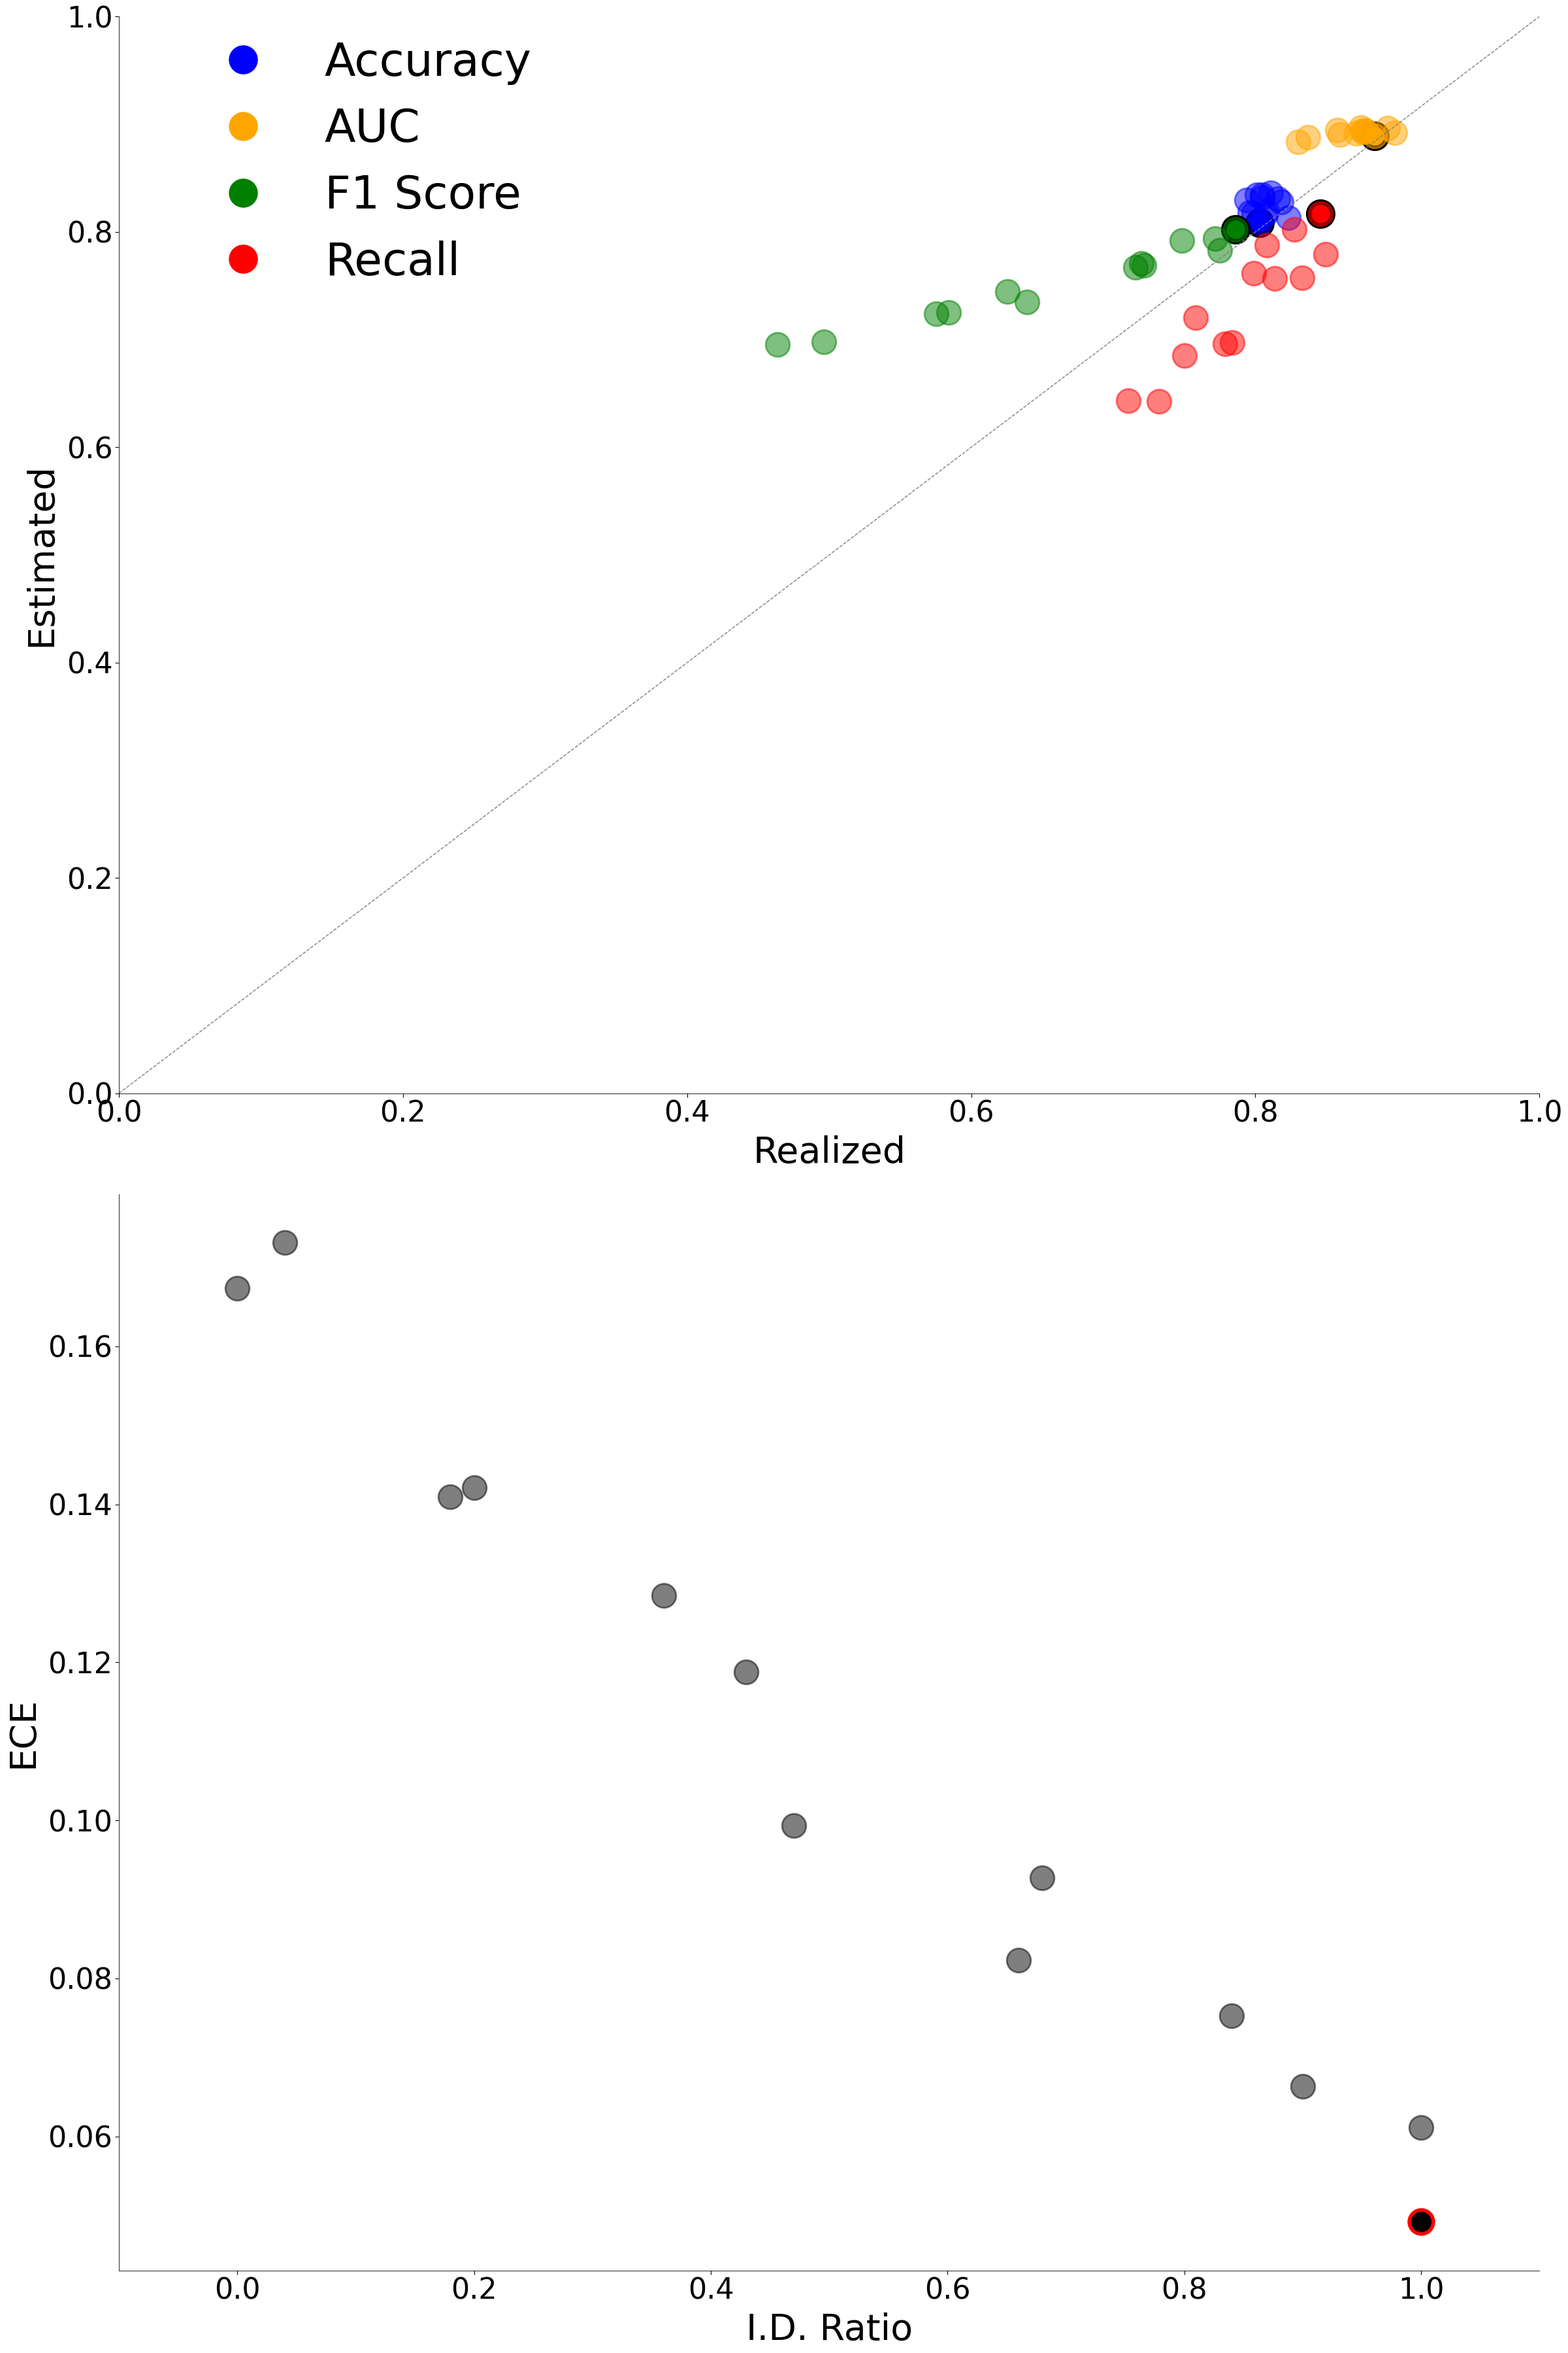
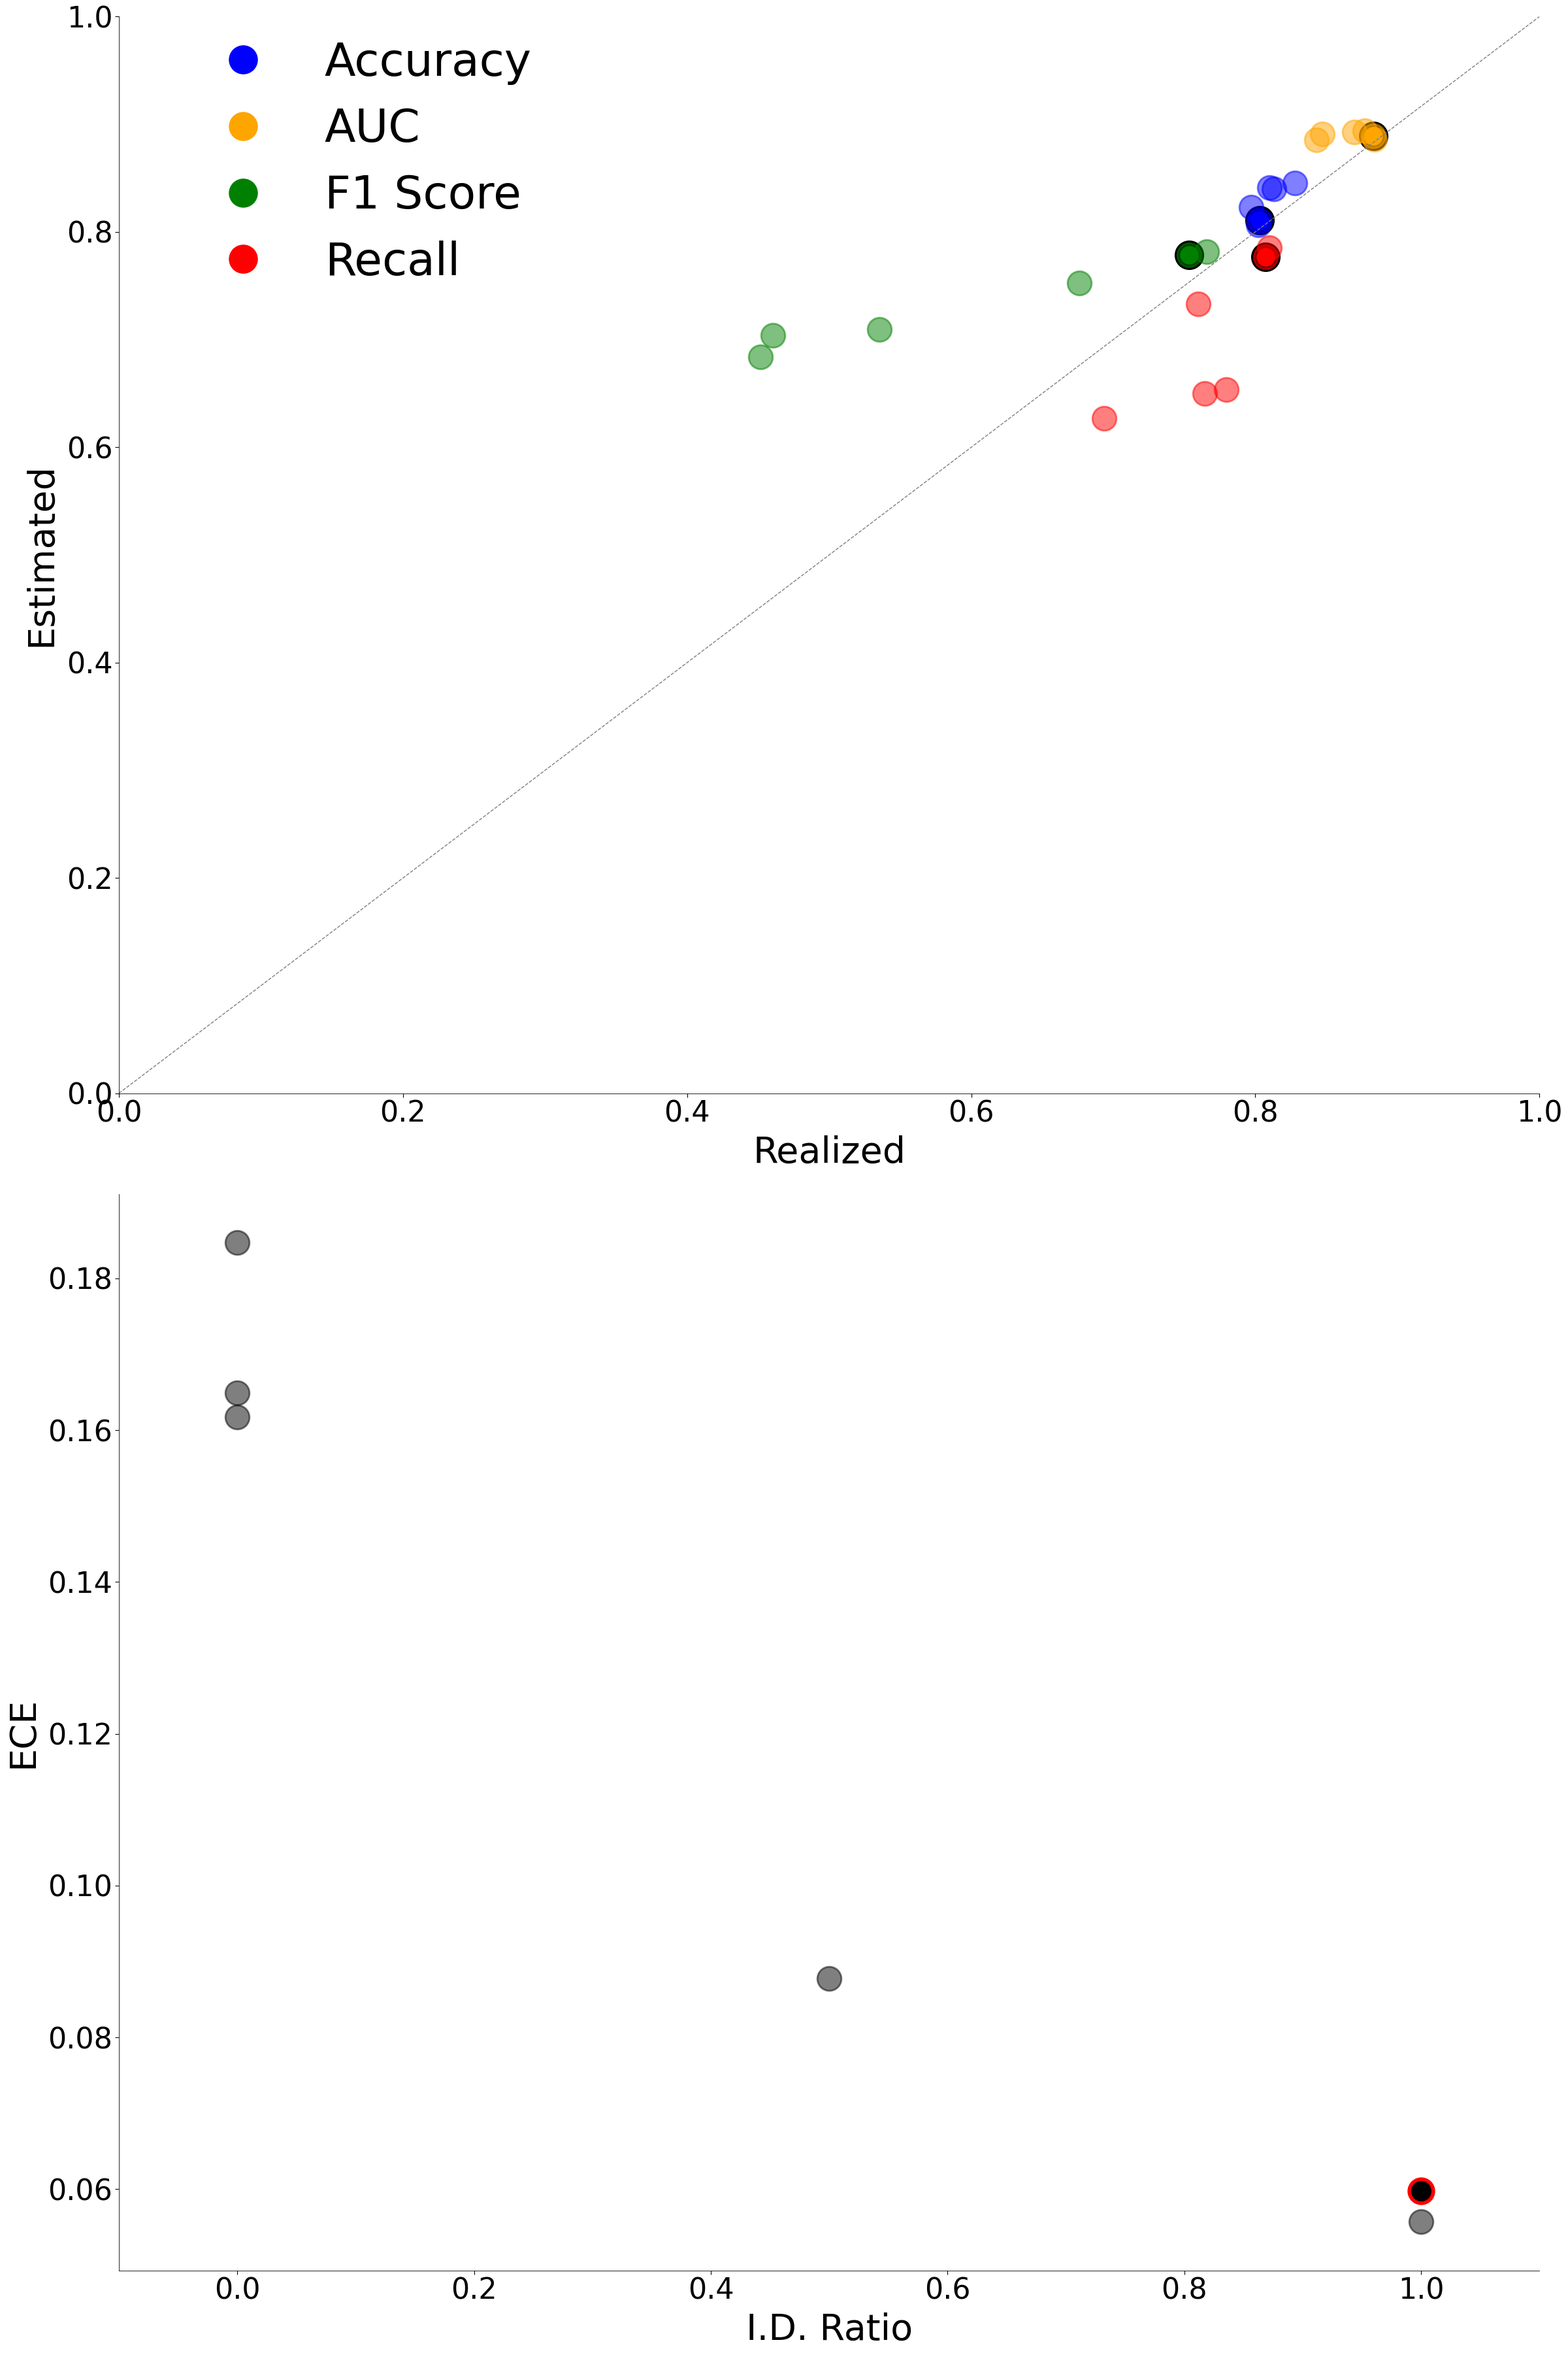
fixed port issue and added pleural effusion image

diff --git a/templates/index.html b/templates/index.html
@@ -121,11 +121,17 @@
       </div>
     </div>
 
-    <!-- Column 2: Model + button -->
-    <div class="column" id="column-2" style="align-items: center; justify-content: center;">
-      <img src="/static/img/model.png" alt="Model Image" style="max-width: 100%; max-height: 70%;">
-      <button onclick="runForwardPass()" style="margin-top: 20px;">Forward Pass</button>
-    </div>
+    <!-- Column 2: SVG + Model image + Forward Pass button -->
+  <div class="column" id="column-2" style="display: flex; flex-direction: column; justify-content: center; align-items: center;">
+  <!-- SVG image -->
+  <img src="/static/img/pleural_effusion.svg" alt="Model SVG" style="max-width: 90%; max-height: 30%; margin-bottom: 10px;">
+
+  <!-- Main model image -->
+  <img src="/static/img/model.png" alt="Model Image" style="max-width: 100%; max-height: 60%; object-fit: contain;">
+
+  <!-- Forward pass button -->
+  <button onclick="runForwardPass()" style="margin-top: 20px; padding: 10px 20px;">Forward Pass</button>
+</div>
 
     <!-- Column 3: Simulation result -->
     <div class="column" id="column-3" style="align-items: center; justify-content: center;">

diff --git a/app.py b/app.py
@@ -1,12 +1,15 @@
 from flask import Flask, render_template, request, jsonify
 import matplotlib.pyplot as plt
 from matplotlib import lines as mlines
+import matplotlib
+matplotlib.use('Agg')
+
 import numpy as np
 import os
 import pickle as pkl
 import pandas as pd
 import sys
-sys.path.append('/storage/homefs/tf24s166/code/BME_viz/') 
+sys.path.append('/Users/tflueh/Documents/PhD/BME_sim/') 
 
 from data.utils import *
 
@@ -29,7 +32,7 @@ def run_simulation():
 
 
     # Get cheXpert data for I.D. and NIH data for ood
-    PATH_TO_OUTS = '/storage/homefs/tf24s166/code/BME_viz/data/uncal_scores_labs.pkl'
+    PATH_TO_OUTS = '/Users/tflueh/Documents/PhD/BME_sim/data/uncal_scores_labs.pkl'
 
     with open(PATH_TO_OUTS, 'rb') as f:
         uncal_scores_labs = pkl.load(f)
@@ -65,7 +68,7 @@ def run_simulation():
     combined_labels = np.concatenate((chexpert_labels, nih_labels))
     combined_probs = np.concatenate((chexpert_probs, nih_probs))
 
-    with plt.style.context('/storage/homefs/tf24s166/code/BME_viz/data/plot_style.txt'):  # Use the custom style
+    with plt.style.context('/Users/tflueh/Documents/PhD/BME_sim/data/plot_style.txt'):  # Use the custom style
         fig, axs = plt.subplots(2, 1, figsize=(12, 18), layout='constrained', sharex=True)
 
         ax = axs[0]
@@ -147,7 +150,7 @@ def run_simulation():
     # Generate accumulated output plot
     x = np.linspace(0, 100, 100)
     y = x
-    with plt.style.context('/storage/homefs/tf24s166/code/BME_viz/data/plot_style.txt'):  # Use the custom style
+    with plt.style.context('/Users/tflueh/Documents/PhD/BME_sim/data/plot_style.txt'):  # Use the custom style
         fig, axs = plt.subplots(2, 1, figsize=(12, 18), layout='constrained', sharey=False)    
         # if axs is not np.ndarray:
         #     axs = [axs]
@@ -203,7 +206,7 @@ def reset_accumulated():
     # Recreate base plot
     x = np.linspace(0, 10, 100)
     y = x
-    with plt.style.context('/storage/homefs/tf24s166/code/BME_viz/data/plot_style.txt'):  # Use the custom style
+    with plt.style.context('/Users/tflueh/Documents/PhD/BME_sim/data/plot_style.txt'):  # Use the custom style
         fig, axs = plt.subplots(2, 1, figsize=(12, 18), layout='constrained', sharey=False)    
         # if axs is not np.ndarray:
         #     axs = [axs]
@@ -242,7 +245,7 @@ if __name__ == "__main__":
     # initialize empty accumulated plot
     x = np.linspace(0, 10, 100)
     y = x
-    with plt.style.context('/storage/homefs/tf24s166/code/BME_viz/data/plot_style.txt'):  # Use the custom style
+    with plt.style.context('/Users/tflueh/Documents/PhD/BME_sim/data/plot_style.txt'):  # Use the custom style
         fig, axs = plt.subplots(2, 1, figsize=(12, 18), layout='constrained', sharey=False)    
         # if axs is not np.ndarray:
         #     axs = [axs]
@@ -275,4 +278,4 @@ if __name__ == "__main__":
         plt.close()
 
 
-    app.run(debug=True)
+    app.run(debug=True, port=5001)
